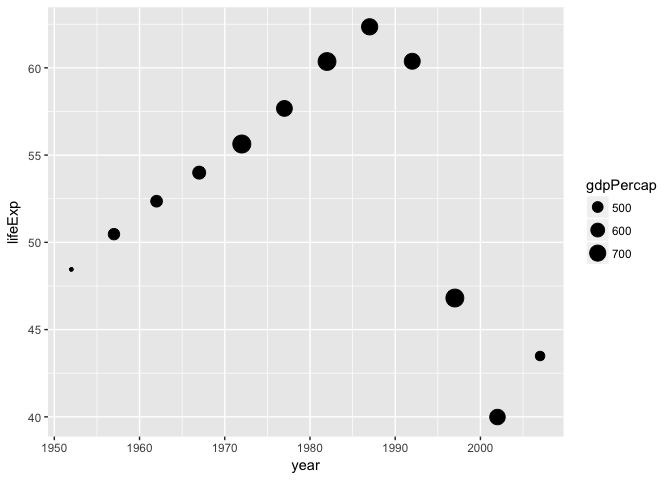
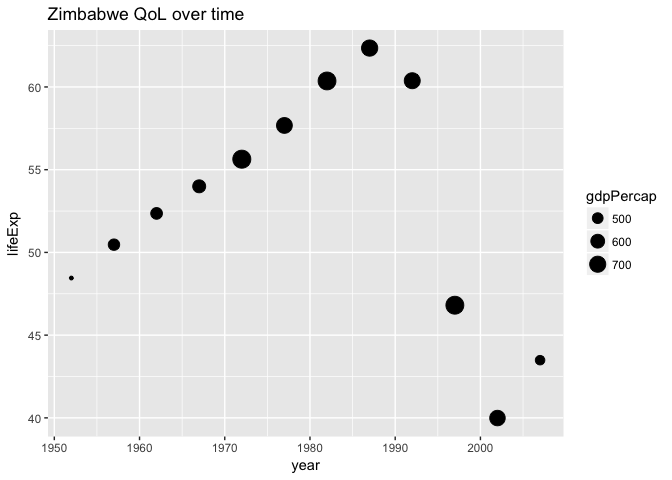
Added graph labels

diff --git a/hw03/Assignment3.md b/hw03/Assignment3.md
@@ -55,7 +55,8 @@ To illustrate the GDP spread from the past two questions, I used a boxplot:
 
 
 ```r
-ggplot(gapminder, aes(x = continent, y = gdpPercap)) + geom_boxplot(aes(alpha = 0.5))
+p <- ggplot(gapminder, aes(x = continent, y = gdpPercap)) + geom_boxplot(alpha = 0.5)
+p + labs(title = 'Distribution of GDP per Capita') # labels
 ```
 
 ![](Assignment3_files/figure-html/unnamed-chunk-4-1.png)<!-- -->
@@ -92,7 +93,7 @@ For my accompanying graph I decided to plot the distribution of life expectancy 
 
 
 ```r
-p <- ggplot(gapminder, aes(x = year, y = lifeExp)) + geom_point(alpha = 0.1)
+p <- ggplot(gapminder, aes(x = year, y = lifeExp)) + geom_point(alpha = 0.1) + labs(title = 'Life expectancy over time')
 p + geom_smooth(method = 'auto') # fitted curve 
 ```
 
@@ -116,7 +117,7 @@ conts <- gapminder %>%
   summarise(meanlifeExp = sum(as.numeric(yearslived))/sum(as.numeric(pop))) 
 
 # plot with colours indicating continent
-p <- ggplot(conts, aes(x = year, y = meanlifeExp))
+p <- ggplot(conts, aes(x = year, y = meanlifeExp)) + labs(title = 'Mean life expectancy over time')
 p + geom_point(aes(colour = continent))
 ```
 
@@ -124,7 +125,7 @@ p + geom_point(aes(colour = continent))
 
 ```r
 # plot distribution for each continent
-p <- ggplot(gapminder,aes(y = lifeExp, x = year))
+p <- ggplot(gapminder,aes(y = lifeExp, x = year)) + labs(title = 'Life expectancy on each continent')
 p <- p + facet_wrap(~ continent) + geom_point(alpha = 0.2) # separate graphs for each continent
 p + geom_smooth(method = 'loess', lwd = 0.5, se = T) # trend lines
 ```
@@ -144,7 +145,7 @@ conts <- gapminder %>%
   group_by(continent, year) %>% 
   summarise(lowLifeExppcent = sum(lifeExp < 57)/length(lifeExp))
 
-ggplot(conts,aes(y = lowLifeExppcent, x = year)) + geom_line(aes(colour = continent))
+ggplot(conts,aes(y = lowLifeExppcent, x = year)) + geom_line(aes(colour = continent)) + labs(title = "Countries with low life expectancy over time", y = "Percent with low life expectancy") 
 ```
 
 ![](Assignment3_files/figure-html/unnamed-chunk-8-1.png)<!-- -->
@@ -166,27 +167,23 @@ gapminder %>%
   filter(continent == 'Africa', year > 1990, year < 2005) %>% 
   group_by(country) %>% 
   summarise(delta = lifeExp[3]-lifeExp[1], population = pop[1]) %>% # change in life expectancy over these years
-  arrange(delta) # list with worst decreases first
+  arrange(delta) %>% # list with worst decreases first
+  head()
 ```
 
 ```
-## # A tibble: 52 x 3
-##                     country   delta population
-##                      <fctr>   <dbl>      <int>
-##  1                 Zimbabwe -20.388   10704340
-##  2                 Botswana -16.111    1342614
-##  3                  Lesotho -15.092    1803195
-##  4                Swaziland -14.605     962344
-##  5                  Namibia -10.520    1554253
-##  6             South Africa  -8.523   39964159
-##  7                    Kenya  -8.293   25020539
-##  8                   Zambia  -6.907    8381163
-##  9 Central African Republic  -6.088    3265124
-## 10            Cote d'Ivoire  -5.212   12772596
-## # ... with 42 more rows
+## # A tibble: 6 x 3
+##        country   delta population
+##         <fctr>   <dbl>      <int>
+## 1     Zimbabwe -20.388   10704340
+## 2     Botswana -16.111    1342614
+## 3      Lesotho -15.092    1803195
+## 4    Swaziland -14.605     962344
+## 5      Namibia -10.520    1554253
+## 6 South Africa  -8.523   39964159
 ```
 
-As we can see, Zimbabwe had the worst change in life expectancy during the regress. Furthermore many of its neighbours join it near the top of the list, in fact we have to go to number 8, Kenya, to find a country not in southern Africa. Thus Zimbabwe is not only the worst affected, but the locus of the regress.
+As we can see, Zimbabwe had the worst change in life expectancy during the regress. Furthermore many of its neighbours join it near the top of the list, in fact each of the worst six changes in life expectancy are in southern Africa. Thus Zimbabwe is not only the worst affected, but the locus of the regress.
 
 Next, we look at how the living standards in Zimbabwe have changed over time:
 
@@ -194,7 +191,7 @@ Next, we look at how the living standards in Zimbabwe have changed over time:
 ```r
 zimbData <- filter(gapminder, country == 'Zimbabwe') 
 
-ggplot(zimbData, aes(x = year, y = lifeExp)) + geom_point(aes(size = gdpPercap)) 
+ggplot(zimbData, aes(x = year, y = lifeExp)) + geom_point(aes(size = gdpPercap)) + labs(title = "Zimbabwe QoL over time") 
 ```
 
 ![](Assignment3_files/figure-html/unnamed-chunk-10-1.png)<!-- -->

diff --git a/hw03/Process-Report.md b/hw03/Process-Report.md
@@ -5,3 +5,7 @@
 * Didn't know how to find the n-th element of a vector. Solved this problem by guessing based on my experience with other languages.
 
 * Didn't know how to declare a variable as the output of piping. Found a solution in one of the lectures.
+
+* I took inspiration for many of my graphs from from [Jenny Bryan's deck on ggplot](https://speakerdeck.com/jennybc/ggplot2-tutorial). In particular for examples of how to use `facet_wrap()` and `geom_smooth()`
+
+*
